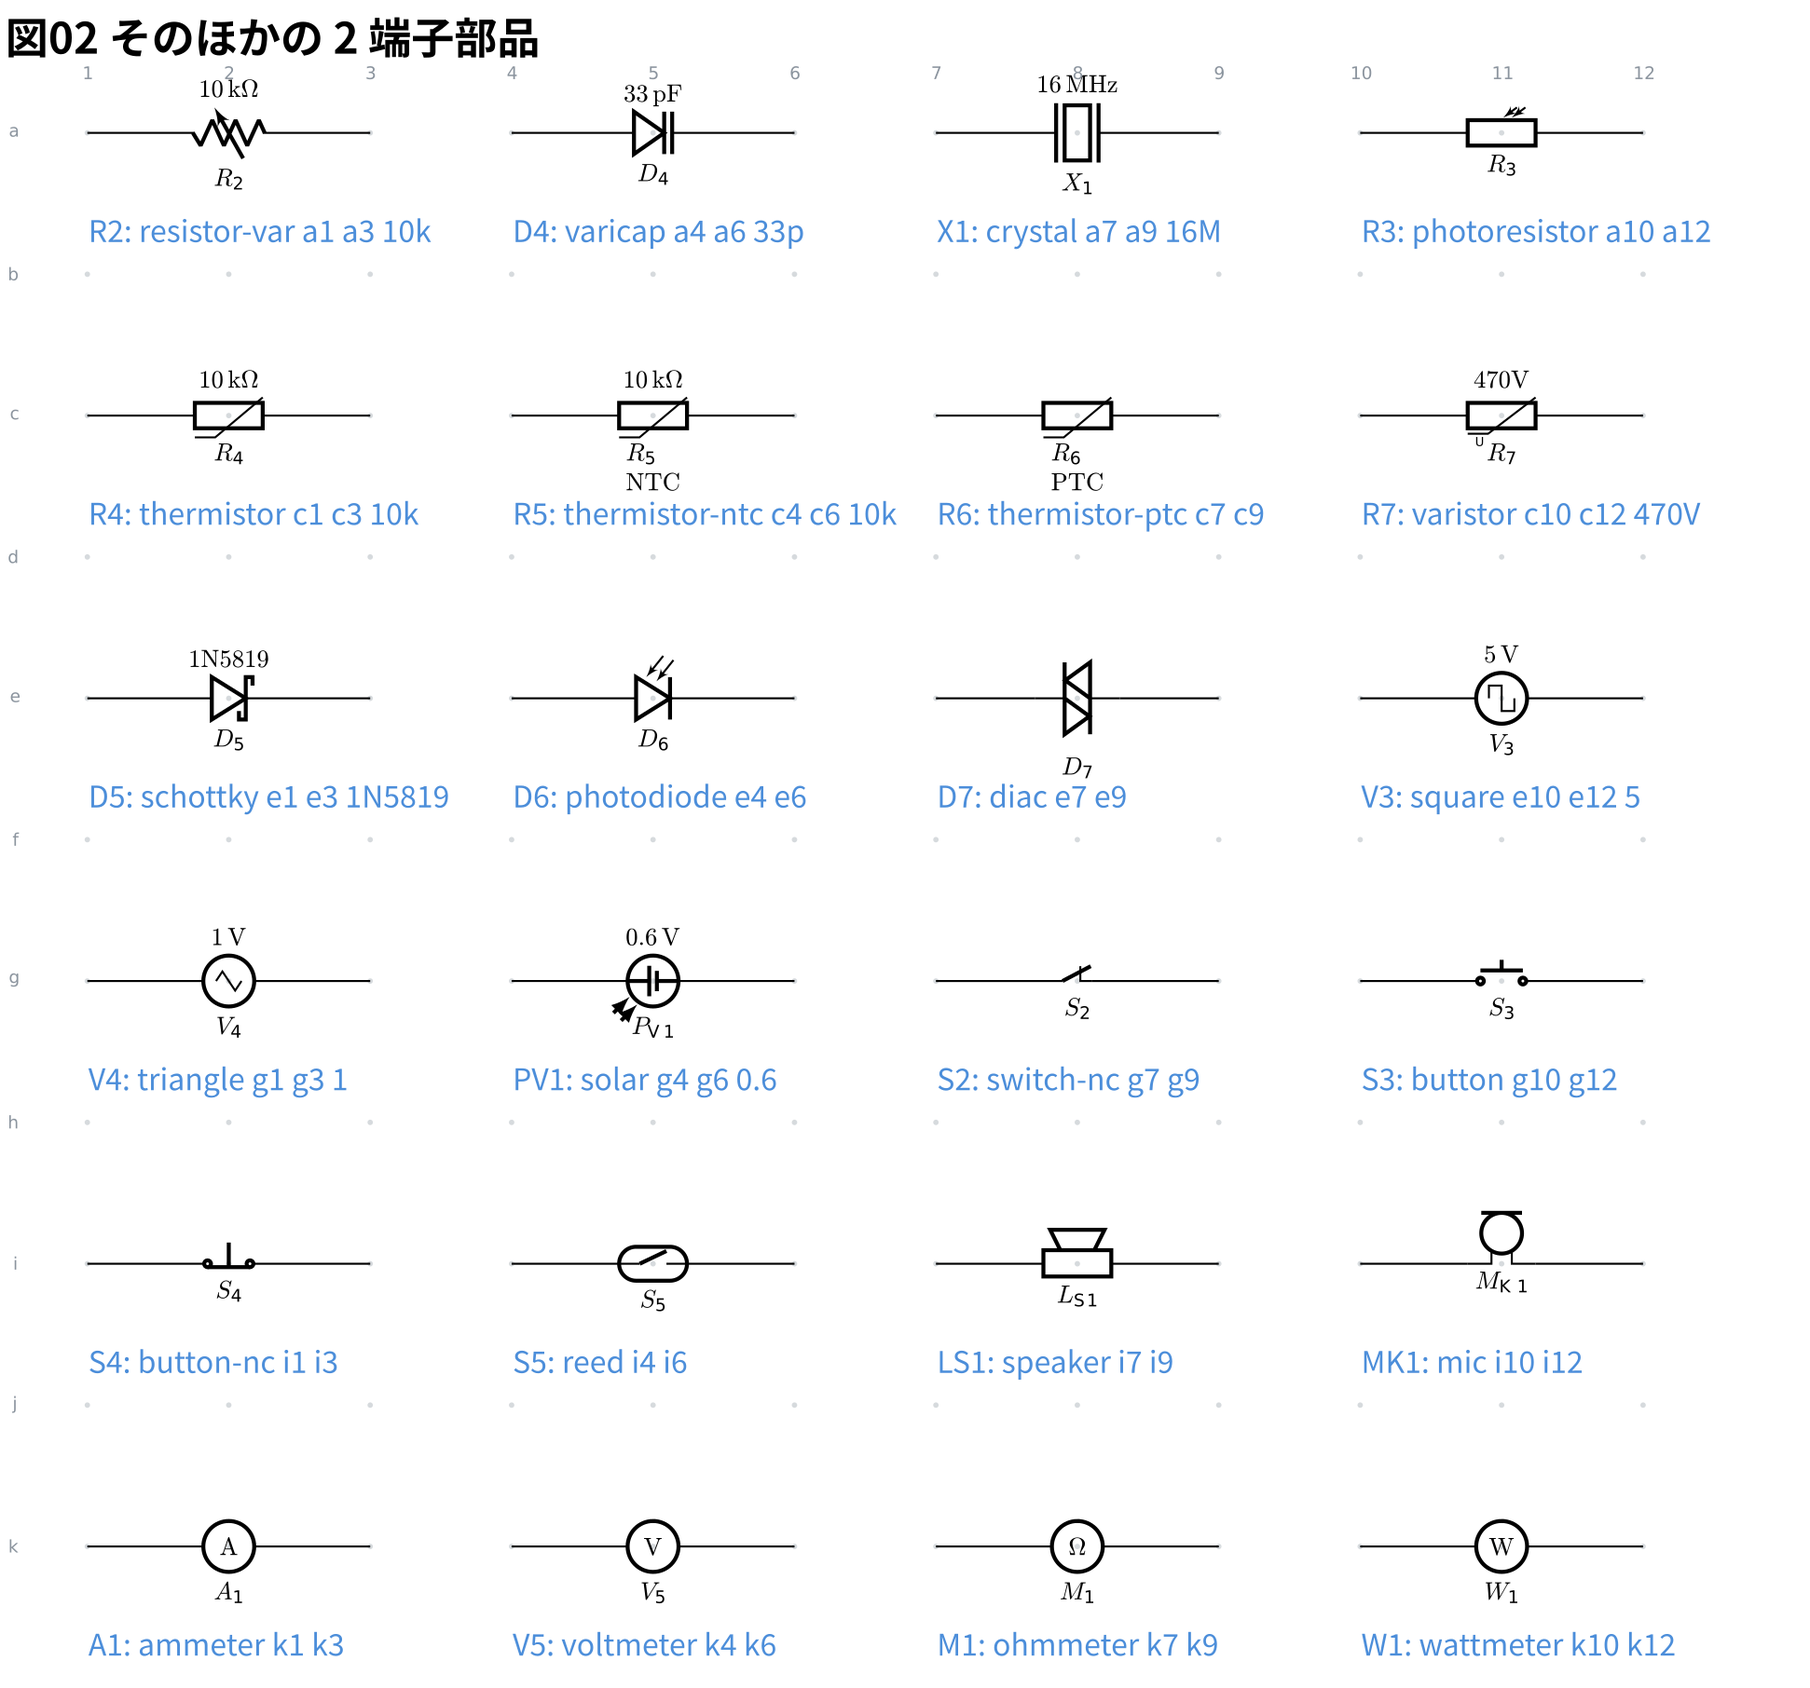
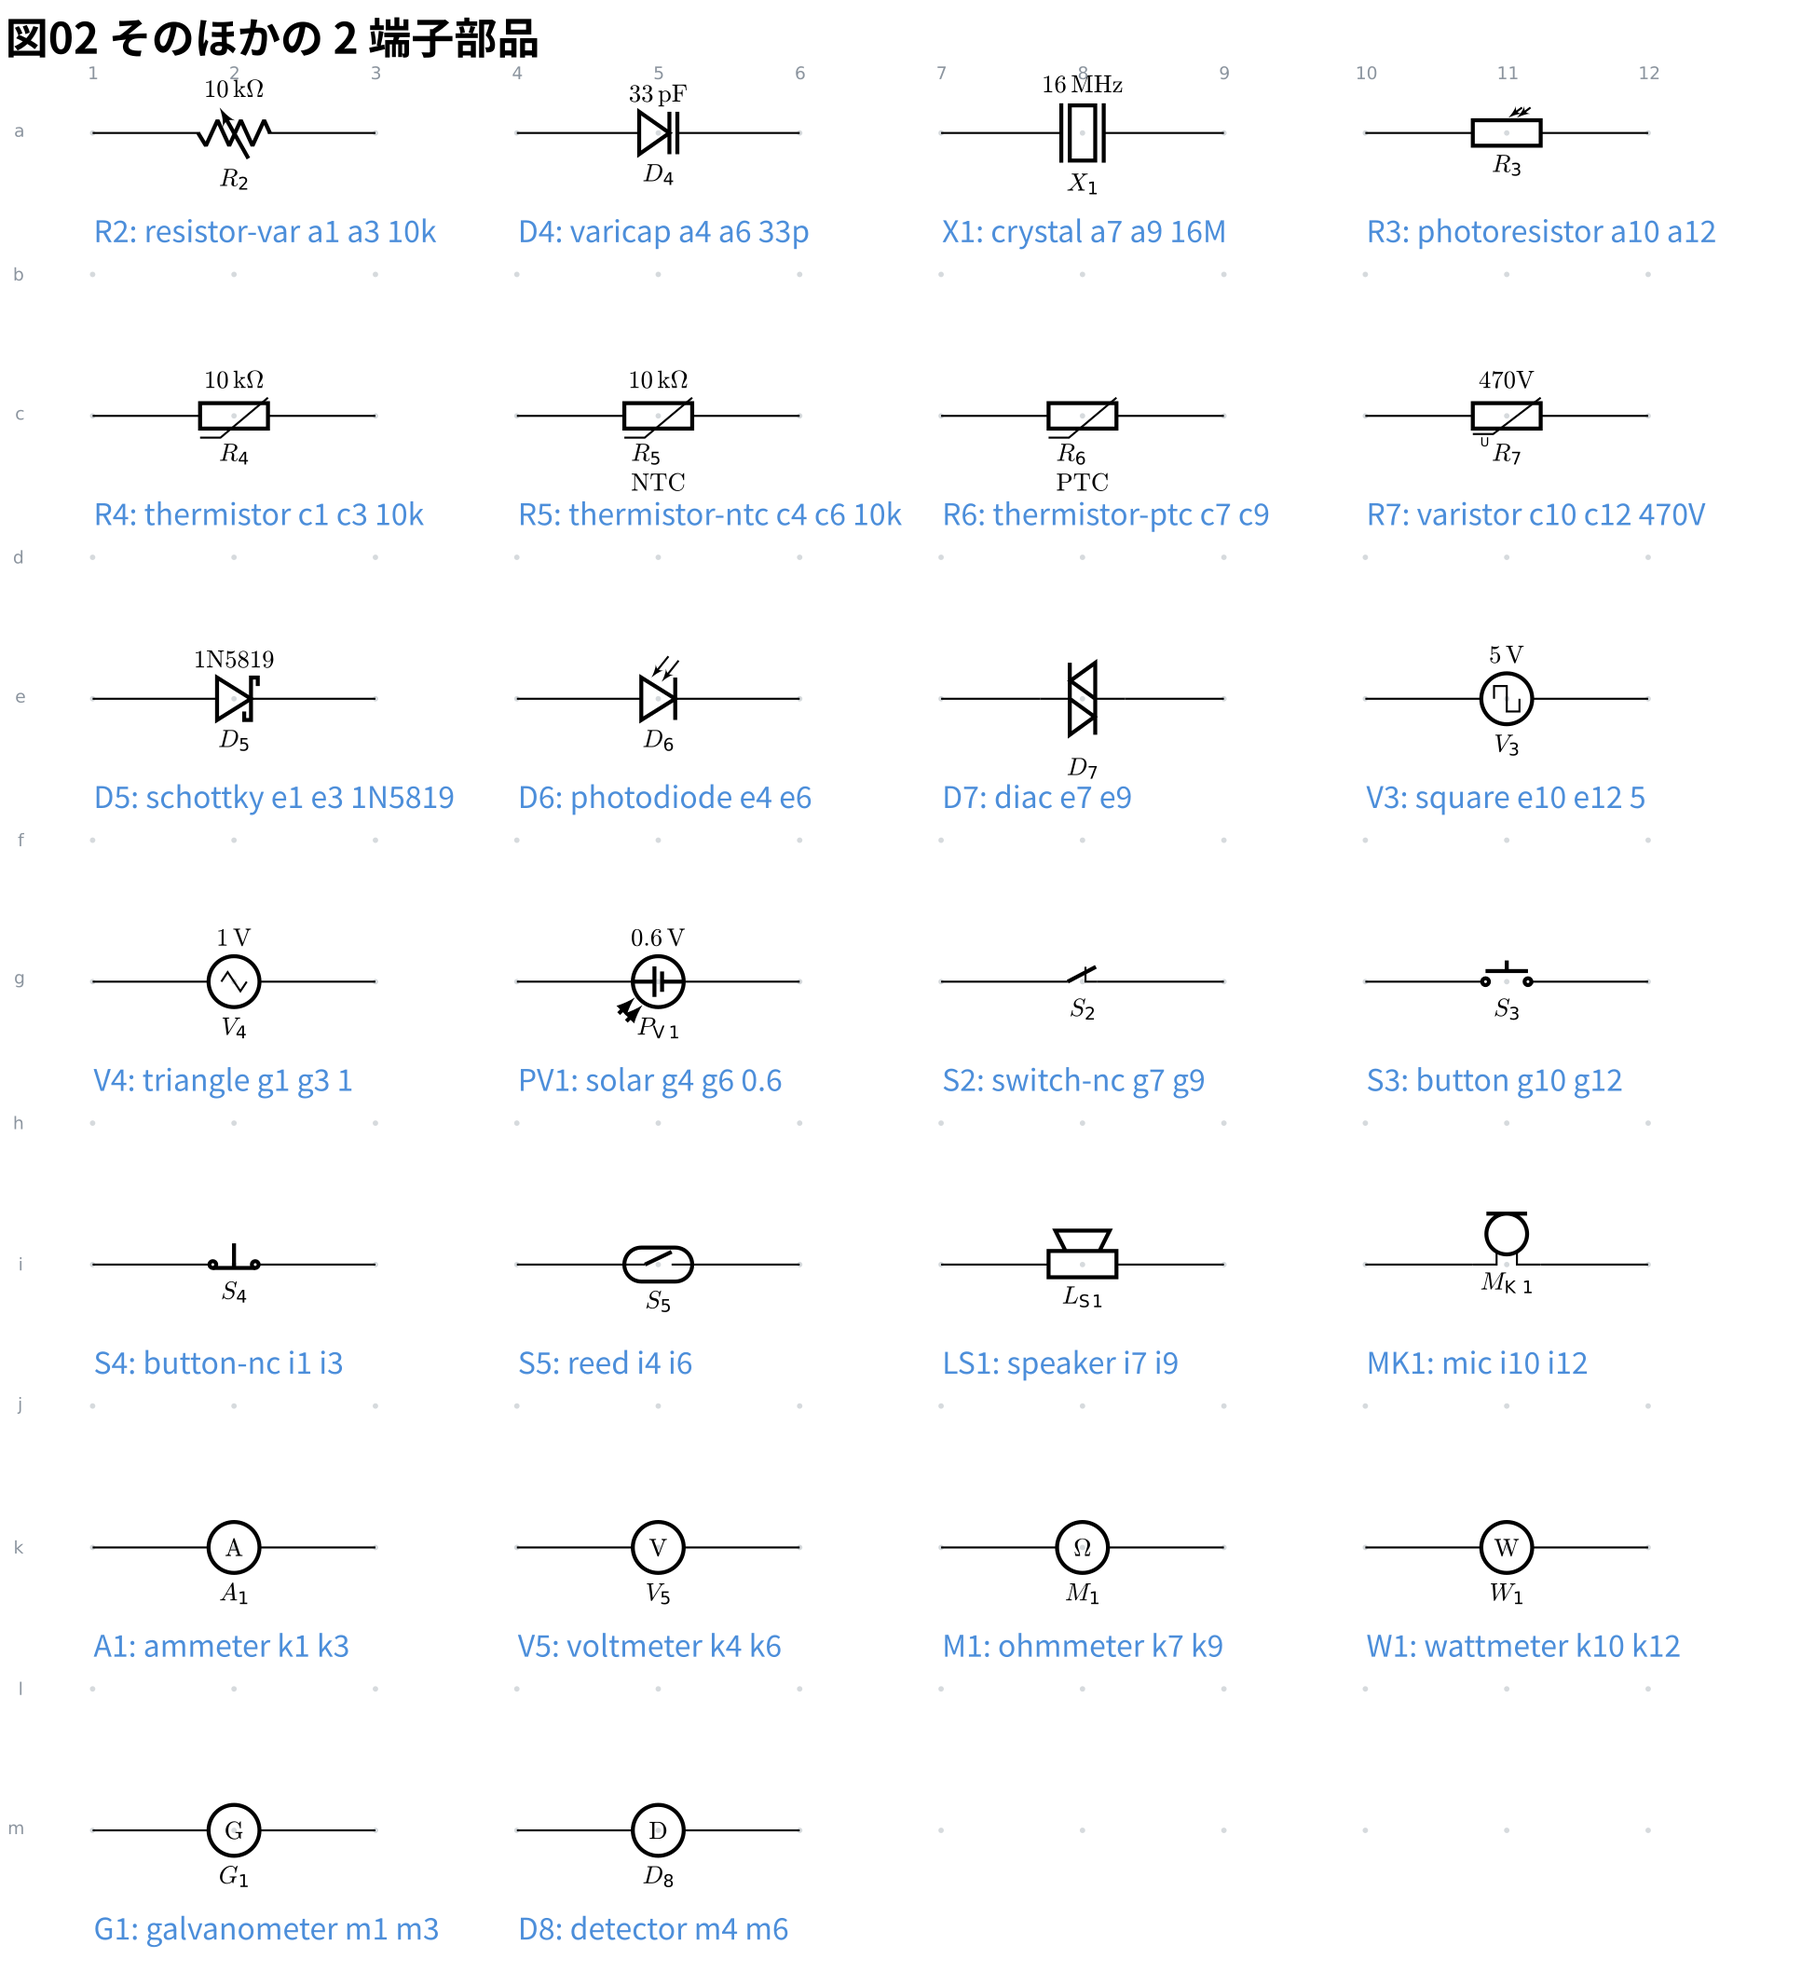
feat: 検流計 galvanometer と検出器 detector を足す
ブリッジ回路の平衡を見る計器。ほかの計器と同じく rmeter (丸 + 字) に
G / D を渡す。値は持たない (振れが零かどうかしか読まない)。
G は直流のブリッジ、D は交流のブリッジで使う。

実機検証 (1 記号 1 プロセス): どちらも普通の太さの立体で、字形は壊れない。
横に引いた図でほかの計器と形が揃っていることも確かめた。

🤖 Generated with [Claude Code](https://claude.com/claude-code)

diff --git a/packages/circuit-fence/src/core/parts.ts b/packages/circuit-fence/src/core/parts.ts
@@ -203,6 +203,8 @@ const HENRY = '\\mathrm{H}';
 const VOLT = '\\mathrm{V}';
 const AMPERE = '\\mathrm{A}';
 const WATT = '\\mathrm{W}';
+const GALVANO = '\\mathrm{G}';
+const DETECT = '\\mathrm{D}';
 const HERTZ = '\\mathrm{Hz}';
 
 const SI_OHM = '\\ohm';
@@ -339,6 +341,10 @@ export const PART_TYPES = {
   // 電力計。二電力計法のように 2 つ並べて書くので、ID の添字で見分ける
   // (`W1` `W2`)。W は普通の太さの立体なので、Ω と違って字形は壊れない (実測)。
   wattmeter: { kind: 'two-terminal', symbol: 'rmeter', options: [`t={$${WATT}$}`], ...NO_UNIT },
+  // 検流計と検出器。ブリッジ回路の平衡を見る計器で、値は持たない
+  // (振れが零かどうかしか読まない)。G は直流のブリッジ、D は交流のブリッジ。
+  galvanometer: { kind: 'two-terminal', symbol: 'rmeter', options: [`t={$${GALVANO}$}`], ...NO_UNIT },
+  detector: { kind: 'two-terminal', symbol: 'rmeter', options: [`t={$${DETECT}$}`], ...NO_UNIT },
 
   // 記号
   port: { kind: 'one-terminal', symbol: 'ocirc', idLabel: 'beside', ...NO_UNIT },

diff --git a/packages/circuit-fence/src/core/parts.test.ts b/packages/circuit-fence/src/core/parts.test.ts
@@ -199,7 +199,7 @@ describe('記事によく出る部品', () => {
   });
 
   test('carries the meters and the parts that make a sound', () => {
-    for (const name of ['ammeter', 'voltmeter', 'ohmmeter', 'wattmeter', 'speaker', 'mic']) {
+    for (const name of ['ammeter', 'voltmeter', 'ohmmeter', 'wattmeter', 'galvanometer', 'detector', 'speaker', 'mic']) {
       expect(lookupPartType(name)?.kind).toBe('two-terminal');
     }
   });
@@ -213,6 +213,8 @@ describe('記事によく出る部品', () => {
     expect(lookupPartType('voltmeter')?.options).toEqual(['t={$\\mathrm{V}$}']);
     expect(lookupPartType('ohmmeter')?.options).toEqual(['t={$\\Omega$}']);
     expect(lookupPartType('wattmeter')?.options).toEqual(['t={$\\mathrm{W}$}']);
+    expect(lookupPartType('galvanometer')?.options).toEqual(['t={$\\mathrm{G}$}']);
+    expect(lookupPartType('detector')?.options).toEqual(['t={$\\mathrm{D}$}']);
   });
 
   test('draws the transformer with the core the usual symbol carries', () => {

diff --git a/packages/circuit-fence/examples/out/02-parts-2.tex b/packages/circuit-fence/examples/out/02-parts-2.tex
@@ -5,7 +5,7 @@
 \begin{document}
 \begin{circuitikz}[american, line width=0.8pt]
 \ctikzset{bipoles/length=1.2cm}
-\foreach \x in {0,2,4,6,8,10,12,14,16,18,20,22} {\foreach \y in {0,-2,-4,-6,-8,-10,-12,-14,-16,-18,-20} {\fill[gray, opacity=0.35] (\x,\y) circle (1.1pt);}}
+\foreach \x in {0,2,4,6,8,10,12,14,16,18,20,22} {\foreach \y in {0,-2,-4,-6,-8,-10,-12,-14,-16,-18,-20,-22,-24} {\fill[gray, opacity=0.35] (\x,\y) circle (1.1pt);}}
 \node[gray, font=\scriptsize] at (0,0.84) {1};
 \node[gray, font=\scriptsize] at (2,0.84) {2};
 \node[gray, font=\scriptsize] at (4,0.84) {3};
@@ -29,6 +29,8 @@
 \node[gray, font=\scriptsize, anchor=east] at (-0.84,-16) {i};
 \node[gray, font=\scriptsize, anchor=east] at (-0.84,-18) {j};
 \node[gray, font=\scriptsize, anchor=east] at (-0.84,-20) {k};
+\node[gray, font=\scriptsize, anchor=east] at (-0.84,-22) {l};
+\node[gray, font=\scriptsize, anchor=east] at (-0.84,-24) {m};
 \coordinate (a1) at (0,0);
 \coordinate (a3) at (4,0);
 \coordinate (a4) at (6,0);
@@ -77,6 +79,10 @@
 \coordinate (k9) at (16,-20);
 \coordinate (k10) at (18,-20);
 \coordinate (k12) at (22,-20);
+\coordinate (m1) at (0,-24);
+\coordinate (m3) at (4,-24);
+\coordinate (m4) at (6,-24);
+\coordinate (m6) at (10,-24);
 \draw (a1) to[vR, mirror, l_=$R_{2}$, a^=$10\,\mathrm{k}\Omega$] (a3); % line 3
 \draw (a4) to[varcap, l_=$D_{4}$, a^=$33\,\mathrm{p}\mathrm{F}$] (a6); % line 4
 \draw (a7) to[piezoelectric, l_=$X_{1}$, a^=$16\,\mathrm{M}\mathrm{Hz}$] (a9); % line 5
@@ -103,54 +109,60 @@
 \draw (k4) to[rmeter, t={$\mathrm{V}$}, l_=$V_{5}$] (k6); % line 24
 \draw (k7) to[rmeter, t={$\Omega$}, l_=$M_{1}$] (k9); % line 25
 \draw (k10) to[rmeter, t={$\mathrm{W}$}, l_=$W_{1}$] (k12); % line 26
-\path (0,-1.993) rectangle (6.604,-0.807); % line 28
-\node[anchor=west, inner sep=0, circuitnotemark, font=\large] at (0,-1.4) {X}; % line 28
-\path (6,-1.993) rectangle (11.334,-0.807); % line 29
-\node[anchor=west, inner sep=0, circuitnotemark, font=\large] at (6,-1.4) {X}; % line 29
-\path (12,-1.993) rectangle (17.334,-0.807); % line 30
-\node[anchor=west, inner sep=0, circuitnotemark, font=\large] at (12,-1.4) {X}; % line 30
-\path (18,-1.993) rectangle (24.35,-0.807); % line 31
-\node[anchor=west, inner sep=0, circuitnotemark, font=\large] at (18,-1.4) {X}; % line 31
-\path (0,-5.993) rectangle (6.096,-4.807); % line 32
-\node[anchor=west, inner sep=0, circuitnotemark, font=\large] at (0,-5.4) {X}; % line 32
-\path (6,-5.993) rectangle (13.112,-4.807); % line 33
-\node[anchor=west, inner sep=0, circuitnotemark, font=\large] at (6,-5.4) {X}; % line 33
-\path (12,-5.993) rectangle (18.096,-4.807); % line 34
-\node[anchor=west, inner sep=0, circuitnotemark, font=\large] at (12,-5.4) {X}; % line 34
-\path (18,-5.993) rectangle (24.35,-4.807); % line 35
-\node[anchor=west, inner sep=0, circuitnotemark, font=\large] at (18,-5.4) {X}; % line 35
-\path (0,-9.993) rectangle (6.35,-8.807); % line 36
-\node[anchor=west, inner sep=0, circuitnotemark, font=\large] at (0,-9.4) {X}; % line 36
-\path (6,-9.993) rectangle (11.08,-8.807); % line 37
-\node[anchor=west, inner sep=0, circuitnotemark, font=\large] at (6,-9.4) {X}; % line 37
-\path (12,-9.993) rectangle (15.556,-8.807); % line 38
-\node[anchor=west, inner sep=0, circuitnotemark, font=\large] at (12,-9.4) {X}; % line 38
-\path (18,-9.993) rectangle (23.08,-8.807); % line 39
-\node[anchor=west, inner sep=0, circuitnotemark, font=\large] at (18,-9.4) {X}; % line 39
-\path (0,-13.993) rectangle (5.08,-12.807); % line 40
-\node[anchor=west, inner sep=0, circuitnotemark, font=\large] at (0,-13.4) {X}; % line 40
-\path (6,-13.993) rectangle (11.08,-12.807); % line 41
-\node[anchor=west, inner sep=0, circuitnotemark, font=\large] at (6,-13.4) {X}; % line 41
-\path (12,-13.993) rectangle (16.826,-12.807); % line 42
-\node[anchor=west, inner sep=0, circuitnotemark, font=\large] at (12,-13.4) {X}; % line 42
-\path (18,-13.993) rectangle (22.572,-12.807); % line 43
-\node[anchor=west, inner sep=0, circuitnotemark, font=\large] at (18,-13.4) {X}; % line 43
-\path (0,-17.993) rectangle (4.826,-16.807); % line 44
-\node[anchor=west, inner sep=0, circuitnotemark, font=\large] at (0,-17.4) {X}; % line 44
-\path (6,-17.993) rectangle (9.556,-16.807); % line 45
-\node[anchor=west, inner sep=0, circuitnotemark, font=\large] at (6,-17.4) {X}; % line 45
-\path (12,-17.993) rectangle (16.572,-16.807); % line 46
-\node[anchor=west, inner sep=0, circuitnotemark, font=\large] at (12,-17.4) {X}; % line 46
-\path (18,-17.993) rectangle (22.064,-16.807); % line 47
-\node[anchor=west, inner sep=0, circuitnotemark, font=\large] at (18,-17.4) {X}; % line 47
-\path (0,-21.993) rectangle (4.318,-20.807); % line 48
-\node[anchor=west, inner sep=0, circuitnotemark, font=\large] at (0,-21.4) {X}; % line 48
-\path (6,-21.993) rectangle (10.826,-20.807); % line 49
-\node[anchor=west, inner sep=0, circuitnotemark, font=\large] at (6,-21.4) {X}; % line 49
-\path (12,-21.993) rectangle (16.572,-20.807); % line 50
-\node[anchor=west, inner sep=0, circuitnotemark, font=\large] at (12,-21.4) {X}; % line 50
-\path (18,-21.993) rectangle (23.334,-20.807); % line 51
-\node[anchor=west, inner sep=0, circuitnotemark, font=\large] at (18,-21.4) {X}; % line 51
+\draw (m1) to[rmeter, t={$\mathrm{G}$}, l_=$G_{1}$] (m3); % line 27
+\draw (m4) to[rmeter, t={$\mathrm{D}$}, l_=$D_{8}$] (m6); % line 28
+\path (0,-1.993) rectangle (6.604,-0.807); % line 30
+\node[anchor=west, inner sep=0, circuitnotemark, font=\large] at (0,-1.4) {X}; % line 30
+\path (6,-1.993) rectangle (11.334,-0.807); % line 31
+\node[anchor=west, inner sep=0, circuitnotemark, font=\large] at (6,-1.4) {X}; % line 31
+\path (12,-1.993) rectangle (17.334,-0.807); % line 32
+\node[anchor=west, inner sep=0, circuitnotemark, font=\large] at (12,-1.4) {X}; % line 32
+\path (18,-1.993) rectangle (24.35,-0.807); % line 33
+\node[anchor=west, inner sep=0, circuitnotemark, font=\large] at (18,-1.4) {X}; % line 33
+\path (0,-5.993) rectangle (6.096,-4.807); % line 34
+\node[anchor=west, inner sep=0, circuitnotemark, font=\large] at (0,-5.4) {X}; % line 34
+\path (6,-5.993) rectangle (13.112,-4.807); % line 35
+\node[anchor=west, inner sep=0, circuitnotemark, font=\large] at (6,-5.4) {X}; % line 35
+\path (12,-5.993) rectangle (18.096,-4.807); % line 36
+\node[anchor=west, inner sep=0, circuitnotemark, font=\large] at (12,-5.4) {X}; % line 36
+\path (18,-5.993) rectangle (24.35,-4.807); % line 37
+\node[anchor=west, inner sep=0, circuitnotemark, font=\large] at (18,-5.4) {X}; % line 37
+\path (0,-9.993) rectangle (6.35,-8.807); % line 38
+\node[anchor=west, inner sep=0, circuitnotemark, font=\large] at (0,-9.4) {X}; % line 38
+\path (6,-9.993) rectangle (11.08,-8.807); % line 39
+\node[anchor=west, inner sep=0, circuitnotemark, font=\large] at (6,-9.4) {X}; % line 39
+\path (12,-9.993) rectangle (15.556,-8.807); % line 40
+\node[anchor=west, inner sep=0, circuitnotemark, font=\large] at (12,-9.4) {X}; % line 40
+\path (18,-9.993) rectangle (23.08,-8.807); % line 41
+\node[anchor=west, inner sep=0, circuitnotemark, font=\large] at (18,-9.4) {X}; % line 41
+\path (0,-13.993) rectangle (5.08,-12.807); % line 42
+\node[anchor=west, inner sep=0, circuitnotemark, font=\large] at (0,-13.4) {X}; % line 42
+\path (6,-13.993) rectangle (11.08,-12.807); % line 43
+\node[anchor=west, inner sep=0, circuitnotemark, font=\large] at (6,-13.4) {X}; % line 43
+\path (12,-13.993) rectangle (16.826,-12.807); % line 44
+\node[anchor=west, inner sep=0, circuitnotemark, font=\large] at (12,-13.4) {X}; % line 44
+\path (18,-13.993) rectangle (22.572,-12.807); % line 45
+\node[anchor=west, inner sep=0, circuitnotemark, font=\large] at (18,-13.4) {X}; % line 45
+\path (0,-17.993) rectangle (4.826,-16.807); % line 46
+\node[anchor=west, inner sep=0, circuitnotemark, font=\large] at (0,-17.4) {X}; % line 46
+\path (6,-17.993) rectangle (9.556,-16.807); % line 47
+\node[anchor=west, inner sep=0, circuitnotemark, font=\large] at (6,-17.4) {X}; % line 47
+\path (12,-17.993) rectangle (16.572,-16.807); % line 48
+\node[anchor=west, inner sep=0, circuitnotemark, font=\large] at (12,-17.4) {X}; % line 48
+\path (18,-17.993) rectangle (22.064,-16.807); % line 49
+\node[anchor=west, inner sep=0, circuitnotemark, font=\large] at (18,-17.4) {X}; % line 49
+\path (0,-21.993) rectangle (4.318,-20.807); % line 50
+\node[anchor=west, inner sep=0, circuitnotemark, font=\large] at (0,-21.4) {X}; % line 50
+\path (6,-21.993) rectangle (10.826,-20.807); % line 51
+\node[anchor=west, inner sep=0, circuitnotemark, font=\large] at (6,-21.4) {X}; % line 51
+\path (12,-21.993) rectangle (16.572,-20.807); % line 52
+\node[anchor=west, inner sep=0, circuitnotemark, font=\large] at (12,-21.4) {X}; % line 52
+\path (18,-21.993) rectangle (23.334,-20.807); % line 53
+\node[anchor=west, inner sep=0, circuitnotemark, font=\large] at (18,-21.4) {X}; % line 53
+\path (0,-25.993) rectangle (5.588,-24.807); % line 54
+\node[anchor=west, inner sep=0, circuitnotemark, font=\large] at (0,-25.4) {X}; % line 54
+\path (6,-25.993) rectangle (10.572,-24.807); % line 55
+\node[anchor=west, inner sep=0, circuitnotemark, font=\large] at (6,-25.4) {X}; % line 55
 \node[anchor=south west, inner sep=2pt, circuitnotemark, font=\LARGE\bfseries] (circuittitle) at (current bounding box.north west) {X};
 \path (circuittitle.south west) rectangle ++(9.876,0.853);
 \end{circuitikz}

diff --git a/packages/circuit-fence/CHANGELOG.md b/packages/circuit-fence/CHANGELOG.md
@@ -33,6 +33,10 @@
   `$…$` を使ったフェンスは注釈の書き出し (`- source`) では図に出せない —
   書き出しは書き手の YAML そのものを置くので、`\` `$` `{` `}` はそこでも通さない。
 
+- **検流計 `galvanometer` と検出器 `detector` を足した**。ブリッジ回路の平衡を
+  見る計器で、ほかの計器と同じく丸に字だけ (G / D)。値は持たない — 振れが零か
+  どうかしか読まないため。G は直流のブリッジ、D は交流のブリッジで使う。
+
 - **電力計 `wattmeter` を足した**。二電力計法のように 2 つ並べて書くので、
   ID の添字で見分ける (`W1` `W2`)。ほかの計器と同じく**丸に字だけ**で描く。
   W は普通の太さの立体なので、抵抗計の Ω (太字数式でフォントが無く落ちる) と

diff --git a/packages/circuit-fence/examples/02-parts.md b/packages/circuit-fence/examples/02-parts.md
@@ -75,6 +75,8 @@ parts:
   V5:  voltmeter k4 k6
   M1:  ohmmeter k7 k9
   W1:  wattmeter k10 k12
+  G1:  galvanometer m1 m3
+  D8:  detector m4 m6
 notes:
   - text a.7_1 blue: "R2: resistor-var a1 a3 10k"
   - text a.7_4 blue: "D4: varicap a4 a6 33p"
@@ -100,6 +102,8 @@ notes:
   - text k.7_4 blue: "V5: voltmeter k4 k6"
   - text k.7_7 blue: "M1: ohmmeter k7 k9"
   - text k.7_10 blue: "W1: wattmeter k10 k12"
+  - text m.7_1 blue: "G1: galvanometer m1 m3"
+  - text m.7_4 blue: "D8: detector m4 m6"
 style:
   grid: on
 ```

diff --git a/packages/circuit-fence/docs/02-cheatsheet.md b/packages/circuit-fence/docs/02-cheatsheet.md
@@ -58,6 +58,7 @@ style:             # 任意。見た目
 - 電源 `vsource` `sine` `square` `triangle` `isource` `battery` `solar`
 - 開閉・出力・計器 `switch` `switch-nc` `button` `button-nc` `reed` `fuse`
   `lamp` `speaker` `mic` `ammeter` `voltmeter` `ohmmeter` `wattmeter`
+  `galvanometer` `detector`
 - 1 端子 `port` `ground` `vcc` `vee`
 - 能動 `npn` `pnp` `nigbt` `pigbt` `nmos` `pmos` `njfet` `pjfet`
   `nmos-e` `pmos-e` `nmos-d` `pmos-d` `opamp` `transformer`
